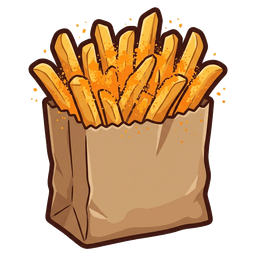
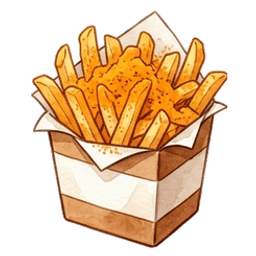
feat(kitchen): khay nguyen lieu tuoi song, concept art toan bo 14 mon va nang cap tray

diff --git a/src/ui/components/SellingView.ts b/src/ui/components/SellingView.ts
@@ -315,9 +315,13 @@ export function renderSellingView(state: GameState, session: SellingSession): st
     const itemsHtml = comboHtml + ord.items.map(it => {
       const menuItem = state.menu.find(m => m.id === it.menuItemId);
       const name = menuItem ? menuItem.name : it.menuItemId;
+      const img = foodImage(it.menuItemId, 'perfect');
       return `
         <div class="order-row">
-          <span class="order-item-title">${menuItem ? menuItem.icon : '🍗'} ${it.count > 1 ? `${it.served}/${it.count}` : '1x'} ${name}</span>
+          <span class="order-item-title">
+            ${img ? `<img src="${img}" class="order-food-thumb" alt="${name}" />` : `<span class="order-food-emoji">${menuItem ? menuItem.icon : '🍗'}</span>`}
+            ${it.count > 1 ? `${it.served}/${it.count}` : '1x'} ${name}
+          </span>
           <span class="order-check ${it.completed ? 'done' : ''}">${it.completed ? '✓' : '○'}</span>
         </div>
       `;
@@ -374,6 +378,10 @@ export function renderSellingView(state: GameState, session: SellingSession): st
   const tray = cookingEngine.getTray();
   const oilCondition = state.oilCondition;
 
+  const chickenStock = state.inventory.chicken_meat?.amount ?? 0;
+  const friesStock = state.inventory.potato_cheese?.amount ?? 0;
+  const drinkStock = state.inventory.soft_drink?.amount ?? 0;
+
   const potProgressPercent = Math.min(100, Math.round(cookState.progress));
   const oilLabel = oilCondition === 'clean' ? 'Vàng óng (Thơm lừng)' : oilCondition === 'medium' ? 'Nâu hổ phách' : 'Đen khét (Bốc khói!)';
 
@@ -423,8 +431,10 @@ export function renderSellingView(state: GameState, session: SellingSession): st
       const qClass = isDrink ? 'good' : item.quality;
       const qText = isDrink ? 'ƯỚP LẠNH ❄' : TRAY_QUALITY_LABEL[item.quality];
       return `
-        <div class="tray-item" data-tray-idx="${slotIdx}" title="Bấm để vứt nếu bị cháy">
-          ${img ? `<img class="t-icon t-img" src="${img}" alt="${item.name}" width="36" height="36" />` : `<span class="t-icon">${item.icon}</span>`}
+        <div class="tray-item" data-tray-idx="${slotIdx}" title="Bấm để vớt hoặc vứt">
+          <div class="tray-food-frame">
+            ${img ? `<img class="t-icon t-img" src="${img}" alt="${item.name}" width="52" height="52" />` : `<span class="t-icon">${item.icon}</span>`}
+          </div>
           <span class="t-name">${item.name}</span>
           <span class="t-quality ${qClass}">${qText}</span>
         </div>
@@ -503,13 +513,47 @@ export function renderSellingView(state: GameState, session: SellingSession): st
               </div>
             </div>
 
-            <!-- Real Action Buttons -->
-            <div style="display: flex; flex-wrap: wrap; gap: 4px; align-items: center; margin-top: 2px;">
-              <button id="btn-fry-chicken" class="btn-sm primary" ${cookState.isFrying ? 'disabled' : ''}>+ Gà Rán</button>
-              <button id="btn-fry-fries" class="btn-sm" ${cookState.isFrying ? 'disabled' : ''}>+ Khoai</button>
-              ${stationOpen(state, 3, ['chicken_meat', 'flour']) ? `<button id="btn-fry-popcorn" class="btn-sm" ${cookState.isFrying ? 'disabled' : ''}>+ Gà viên</button>` : ''}
-              <button id="btn-add-drink" class="btn-sm">🥤 Nước</button>
-              <button id="btn-change-oil" class="oil-change-btn">Thay dầu (150k)</button>
+            <!-- Khay Đựng Đồ Ăn Chưa Chế Biến (Raw Prep Containers) -->
+            <div class="prep-baskets-section">
+              <div class="prep-baskets-header">
+                <span class="prep-baskets-title">🧺 Khay Nguyên Liệu Sẵn Sàng</span>
+                <button id="btn-change-oil" class="oil-change-btn">Thay dầu (150k)</button>
+              </div>
+              <div class="prep-baskets-grid">
+                <button id="btn-fry-chicken" class="prep-basket-btn primary ${cookState.isFrying ? 'disabled' : ''}" ${cookState.isFrying ? 'disabled' : ''} title="Thả gà tươi tẩm bột vào chảo chiên">
+                  <img src="${ASSETS.kitchen.prepChicken}" alt="Rổ Gà Tươi" class="prep-basket-img" />
+                  <div class="prep-basket-details">
+                    <span class="prep-basket-label">+ Gà Tươi</span>
+                    <span class="prep-basket-qty">Còn: ${chickenStock}</span>
+                  </div>
+                </button>
+
+                <button id="btn-fry-fries" class="prep-basket-btn ${cookState.isFrying ? 'disabled' : ''}" ${cookState.isFrying ? 'disabled' : ''} title="Thả khoai tây cắt sợi vào chảo chiên">
+                  <img src="${ASSETS.kitchen.prepFries}" alt="Khay Khoai Tươi" class="prep-basket-img" />
+                  <div class="prep-basket-details">
+                    <span class="prep-basket-label">+ Khoai Tươi</span>
+                    <span class="prep-basket-qty">Còn: ${friesStock}</span>
+                  </div>
+                </button>
+
+                ${stationOpen(state, 3, ['chicken_meat', 'flour']) ? `
+                  <button id="btn-fry-popcorn" class="prep-basket-btn ${cookState.isFrying ? 'disabled' : ''}" ${cookState.isFrying ? 'disabled' : ''} title="Chiên gà viên popcorn">
+                    <img src="${ASSETS.food.popcornChicken}" alt="Gà Viên" class="prep-basket-img" />
+                    <div class="prep-basket-details">
+                      <span class="prep-basket-label">+ Gà Viên</span>
+                      <span class="prep-basket-qty">Chảo</span>
+                    </div>
+                  </button>
+                ` : ''}
+
+                <button id="btn-add-drink" class="prep-basket-btn drink" title="Lấy lon nước ngọt lạnh ra khay">
+                  <img src="${ASSETS.kitchen.prepSoda}" alt="Thùng Nước Lạnh" class="prep-basket-img" />
+                  <div class="prep-basket-details">
+                    <span class="prep-basket-label">🥤 Nước Lạnh</span>
+                    <span class="prep-basket-qty">Còn: ${drinkStock}</span>
+                  </div>
+                </button>
+              </div>
             </div>
           </div>
 
@@ -527,10 +571,12 @@ export function renderSellingView(state: GameState, session: SellingSession): st
             <!-- Seasoning Addons (món sốt mở từ chương 2) -->
             ${state.currentChapter < 2 ? '' : `<div class="addon-station">
               <button id="btn-season-spicy" class="addon-btn ${cookingEngine.getActiveSeasoning() === 'spicy' ? 'active' : ''}">
-                🌶 Sốt Cay
+                <img src="${ASSETS.kitchen.prepSpicyPot}" class="addon-pot-img" alt="Hũ Sốt Cay" />
+                <span>🌶 Sốt Cay</span>
               </button>
               <button id="btn-season-honey" class="addon-btn ${cookingEngine.getActiveSeasoning() === 'honey' ? 'active' : ''}">
-                🍯 Bơ Tỏi
+                <img src="${ASSETS.kitchen.prepHoneyPot}" class="addon-pot-img" alt="Hũ Bơ Tỏi" />
+                <span>🍯 Bơ Tỏi</span>
               </button>
             </div>`}
 

diff --git a/src/styles/kitchen.css b/src/styles/kitchen.css
@@ -657,3 +657,166 @@
   background: #fff3e6;
   color: var(--orange);
 }
+
+/* ==========================================================================
+   Raw Prep Baskets & Food Concept Visualization
+   ========================================================================== */
+
+.prep-baskets-section {
+  display: flex;
+  flex-direction: column;
+  gap: 4px;
+  margin-top: 2px;
+}
+
+.prep-baskets-header {
+  display: flex;
+  justify-content: space-between;
+  align-items: center;
+  gap: 4px;
+}
+
+.prep-baskets-title {
+  font-size: 0.65rem;
+  font-weight: 800;
+  color: #5c351f;
+  white-space: nowrap;
+}
+
+.prep-baskets-grid {
+  display: grid;
+  grid-template-columns: repeat(2, minmax(0, 1fr));
+  gap: 4px;
+}
+
+.prep-basket-btn {
+  min-height: 48px;
+  min-width: 44px;
+  background: #fffdfa;
+  border: 1.5px solid #d4bda0;
+  border-radius: 9px;
+  padding: 3px 5px;
+  display: flex;
+  align-items: center;
+  gap: 5px;
+  cursor: pointer;
+  box-shadow: 0 2px 0 #bda282;
+  transition: transform 0.1s ease, box-shadow 0.1s ease;
+  user-select: none;
+  -webkit-user-select: none;
+  touch-action: manipulation;
+  text-align: left;
+  box-sizing: border-box;
+}
+
+.prep-basket-btn:active:not(:disabled) {
+  transform: translateY(2px);
+  box-shadow: 0 0 0 #bda282;
+}
+
+.prep-basket-btn.primary {
+  background: #fffbf5;
+  border-color: #f4a261;
+  box-shadow: 0 2px 0 #d87e35;
+}
+
+.prep-basket-btn.drink {
+  background: #f4f8fe;
+  border-color: #a4c8f0;
+  box-shadow: 0 2px 0 #7caee3;
+}
+
+.prep-basket-btn:disabled {
+  opacity: 0.55;
+  filter: grayscale(40%);
+  cursor: not-allowed;
+  transform: none;
+  box-shadow: 0 1px 0 #ccc;
+}
+
+.prep-basket-img {
+  width: 28px;
+  height: 28px;
+  object-fit: contain;
+  flex-shrink: 0;
+  filter: drop-shadow(0 2px 3px rgba(0,0,0,0.15));
+}
+
+.prep-basket-details {
+  display: flex;
+  flex-direction: column;
+  min-width: 0;
+  line-height: 1.15;
+}
+
+.prep-basket-label {
+  font-size: 0.68rem;
+  font-weight: 800;
+  color: var(--ink);
+  white-space: nowrap;
+  overflow: hidden;
+  text-overflow: ellipsis;
+}
+
+.prep-basket-qty {
+  font-size: 0.56rem;
+  font-weight: 700;
+  color: var(--soft);
+}
+
+/* Addon sauce pot thumbnails */
+.addon-pot-img {
+  width: 22px;
+  height: 22px;
+  object-fit: contain;
+  vertical-align: middle;
+  flex-shrink: 0;
+}
+
+/* Order Food Thumbnails in speech bubble */
+.order-food-thumb {
+  width: 20px;
+  height: 20px;
+  object-fit: contain;
+  vertical-align: middle;
+  margin-right: 4px;
+  filter: drop-shadow(0 1px 2px rgba(0,0,0,0.15));
+  flex-shrink: 0;
+}
+
+.order-food-emoji {
+  margin-right: 3px;
+}
+
+/* Tray food frame & concept display */
+.tray-food-frame {
+  width: 48px;
+  height: 48px;
+  display: flex;
+  align-items: center;
+  justify-content: center;
+  margin: 0 auto 2px;
+}
+
+.tray-item .t-img {
+  width: 46px;
+  height: 46px;
+  min-width: 46px;
+  min-height: 46px;
+  max-width: 46px;
+  max-height: 46px;
+  object-fit: contain;
+  display: block;
+  margin: 0 auto;
+  flex-shrink: 0;
+  filter: drop-shadow(0 3px 5px rgba(0,0,0,0.16));
+}
+
+.tray-item .t-quality-pill {
+  font-size: 0.55rem;
+  font-weight: 800;
+  padding: 1px 4px;
+  border-radius: 4px;
+  margin-top: 1px;
+}
+

diff --git a/src/content/assets.ts b/src/content/assets.ts
@@ -100,14 +100,30 @@ export const ASSETS = {
     panEmpty: url('assets/kitchen/kitchen_pan_empty.png'),
     oilClean: url('assets/kitchen/kitchen_oil_clean.png'),
     oilMedium: url('assets/kitchen/kitchen_oil_medium.png'),
-    oilDirty: url('assets/kitchen/kitchen_oil_dirty.png')
+    oilDirty: url('assets/kitchen/kitchen_oil_dirty.png'),
+    prepChicken: url('assets/kitchen/prep_basket_raw_chicken.png'),
+    prepFries: url('assets/kitchen/prep_tray_raw_fries.png'),
+    prepSoda: url('assets/kitchen/prep_crate_cold_soda.png'),
+    prepSpicyPot: url('assets/kitchen/prep_pot_spicy_sauce.png'),
+    prepHoneyPot: url('assets/kitchen/prep_pot_honey_sauce.png')
   },
   food: {
     crispyChickenPerfect: url('assets/food/food_crispy_chicken_perfect.png'),
     crispyChickenRaw: url('assets/food/food_crispy_chicken_raw.png'),
     crispyChickenBurnt: url('assets/food/food_crispy_chicken_burnt.png'),
+    spicyChicken: url('assets/food/food_spicy_chicken.png'),
+    honeyGarlicChicken: url('assets/food/food_honey_garlic_chicken.png'),
+    popcornChicken: url('assets/food/food_popcorn_chicken.png'),
     shakeFries: url('assets/food/food_shake_fries.png'),
-    soda: url('assets/food/food_soda.png')
+    soda: url('assets/food/food_soda.png'),
+    pastaBeef: url('assets/food/food_pasta_beef.png'),
+    biscuitHoney: url('assets/food/food_biscuit_honey.png'),
+    chickenBurger: url('assets/food/food_chicken_burger.png'),
+    peachTea: url('assets/food/food_peach_tea.png'),
+    chickenRice: url('assets/food/food_chicken_rice.png'),
+    tokbokkiChicken: url('assets/food/food_korean_tokbokki_chicken.png'),
+    sundaeIcecream: url('assets/food/food_sundae_icecream.png'),
+    familyBucket: url('assets/food/food_family_bucket.png')
   },
   ui: {
     bunnyNote: url('assets/ui/ui_bunny_note.png'),
@@ -129,10 +145,32 @@ export function foodImage(menuItemId: string, quality: QualityRating): string | 
       return quality === 'raw' ? ASSETS.food.crispyChickenRaw
         : quality === 'burnt' ? ASSETS.food.crispyChickenBurnt
         : ASSETS.food.crispyChickenPerfect;
+    case 'spicy_chicken':
+      return quality === 'burnt' ? ASSETS.food.crispyChickenBurnt : ASSETS.food.spicyChicken;
+    case 'honey_garlic_chicken':
+      return quality === 'burnt' ? ASSETS.food.crispyChickenBurnt : ASSETS.food.honeyGarlicChicken;
+    case 'popcorn_chicken':
+      return quality === 'burnt' ? ASSETS.food.crispyChickenBurnt : ASSETS.food.popcornChicken;
     case 'shake_fries':
-      return ASSETS.food.shakeFries;
+      return quality === 'burnt' ? ASSETS.food.crispyChickenBurnt : ASSETS.food.shakeFries;
     case 'soda':
       return ASSETS.food.soda;
+    case 'pasta_beef':
+      return ASSETS.food.pastaBeef;
+    case 'biscuit_honey':
+      return ASSETS.food.biscuitHoney;
+    case 'chicken_burger':
+      return ASSETS.food.chickenBurger;
+    case 'peach_tea':
+      return ASSETS.food.peachTea;
+    case 'chicken_rice':
+      return ASSETS.food.chickenRice;
+    case 'korean_tokbokki_chicken':
+      return ASSETS.food.tokbokkiChicken;
+    case 'sundae_icecream':
+      return ASSETS.food.sundaeIcecream;
+    case 'family_bucket':
+      return ASSETS.food.familyBucket;
     default:
       return null;
   }

diff --git a/tests/assets.test.ts b/tests/assets.test.ts
@@ -19,9 +19,13 @@ describe('ảnh món theo chất lượng', () => {
     expect(foodImage('crispy_chicken', 'perfect')).toContain('perfect');
     expect(foodImage('crispy_chicken', 'good')).toContain('perfect');
   });
-  it('khoai, nước có ảnh; món chưa có ảnh trả null để dùng emoji', () => {
+  it('mọi món trong thực đơn đều có ảnh concept chất lượng cao', () => {
     expect(foodImage('shake_fries', 'perfect')).toContain('fries');
     expect(foodImage('soda', 'good')).toContain('soda');
-    expect(foodImage('spicy_chicken', 'perfect')).toBeNull();
+    expect(foodImage('spicy_chicken', 'perfect')).toContain('spicy');
+    expect(foodImage('honey_garlic_chicken', 'perfect')).toContain('honey');
+    expect(foodImage('chicken_burger', 'perfect')).toContain('burger');
+    expect(foodImage('korean_tokbokki_chicken', 'perfect')).toContain('tokbokki');
+    expect(foodImage('unknown_food_xyz', 'perfect')).toBeNull();
   });
 });

diff --git a/docs/phan-cong.md b/docs/phan-cong.md
@@ -73,6 +73,7 @@ Phiên làm việc: 26/09/2026, 14:35 → 15:35 (1 tiếng mỗi bên, chạy so
 | 22:55 | Claude & Gemini 1 | **[Lock Task] Redesign UI Concept Tiệm Gà Rán Hàn Quốc:** Chuyển bảng kế hoạch từ màu xanh rêu u tối sang tông màu sáng ấm cúng phong cách Korean Fried Chicken Bistro; thiết kế logo huy hiệu gà rán phong cách K-Chicken; sửa triệt để tương phản màu chữ (không bị chìm nền); bổ sung asset/sticker trang trí; nâng cấp tab và nút Mở bán 3D giòn tan. File: `src/styles/variables.css`, `src/styles/main.css`, `src/ui/components/Header.ts`, `src/ui/components/Chalkboard.ts`, `public/assets/**`. |
 | 23:15 | Claude & Gemini 1 | **Redesign UI Tiệm Gà Hàn Quốc: XONG 100%.** Đã hoàn tất: (1) Thay đổi bảng kế hoạch sang phong cách Korean Chicken Bistro sáng ấm, viền gỗ caramel, mái hiên sọc đỏ-kem 3D; (2) Huy hiệu Logo gà rán Hàn Quốc (`logo_korean_chicken.png`) trên Header và sticker trang trí gà giòn sốt cay (`sticker_drumstick.png`), biển neon ("치킨" `sticker_neon.png`); (3) Giải quyết triệt để vấn đề tương phản chữ: nút đặt cọc, gợi ý cọc, nhãn thời tiết, thanh tiến độ 100% rõ nét, không bị chìm nền; (4) Vượt qua toàn bộ các cổng kiểm định chất lượng: Vitest 219/219 tests PASS, `npm run build` PASS, `npm run ui:check` 100% PASS trên 360px & 390px (0 tràn ngang, 0 fail), `npm run ios:check` PASS 100% trên WebKit iPhone SE, 13, 15 Pro Max. |
 | 23:30 | Claude & Gemini 1 | **Cozy Healing Startup Game Landing & Interactive Opening: XONG 100%.** Triển khai màn Landing Opening phong cách game khởi nghiệp indie chữa lành (Xe Cá Viên Chiên, Tiệm Mì Bé Xíu, Tiệm Trà Nhỏ) với nền tiệm gà hẻm Sài Gòn rợp nắng ấm (`landing_bg.jpg`), các điểm chạm tương tác Hotspot trực tiếp trên ảnh nền (Gà Bông, Rổ Gà, Bé Mèo, Đèn Lồng) kèm bóng thoại sinh động và âm thanh, bộ sticker trang trí (`sticker_cat.png`, `sticker_lantern.png`, `sticker_daisy.png`), chuyển đổi toàn bộ inline style của màn Title sang class CSS chuẩn `.title-*`. Kiểm thử 223/223 vitest PASS, 100% `ui:check` PASS, 100% `ios:check` PASS. |
+| 23:55 | Gemini 1 & Claude | **Nâng Cấp Khay Nguyên Liệu Tươi Sống & Concept Art 100% Thực Đơn: XONG 100%.** (1) Tạo 14/14 concept art món ăn & đồ uống transparent PNG trong `public/assets/food/` và `assets-src/food/`, cập nhật `foodImage()` để toàn bộ thực đơn (Ch1-Ch5 + combos) đều hiển thị concept art sắc nét, xóa bỏ hoàn toàn emoji text thô sơ; (2) Tạo 5 khay đựng nguyên liệu tươi sống/chế biến (`prep_basket_raw_chicken`, `prep_tray_raw_fries`, `prep_crate_cold_soda`, `prep_pot_spicy_sauce`, `prep_pot_honey_sauce`) tại khu vực bếp chiên và quầy gia vị với số lượng tồn kho trực tiếp (`Còn: X`); (3) Nâng cấp Quầy Giữ Nhiệt hiển thị món cỡ lớn `52px` khung viền nổi bật và bóng thoại gọi món của thực khách có ảnh món ăn rõ ràng; (4) Vượt qua toàn bộ kiểm thử: Vitest (239/239 PASS), `npm run ui:check` (100% PASS trên 360px & 390px), `npm run ios:check` (100% PASS trên WebKit iPhone SE, 13, 15 Pro Max). |
 
 
 
